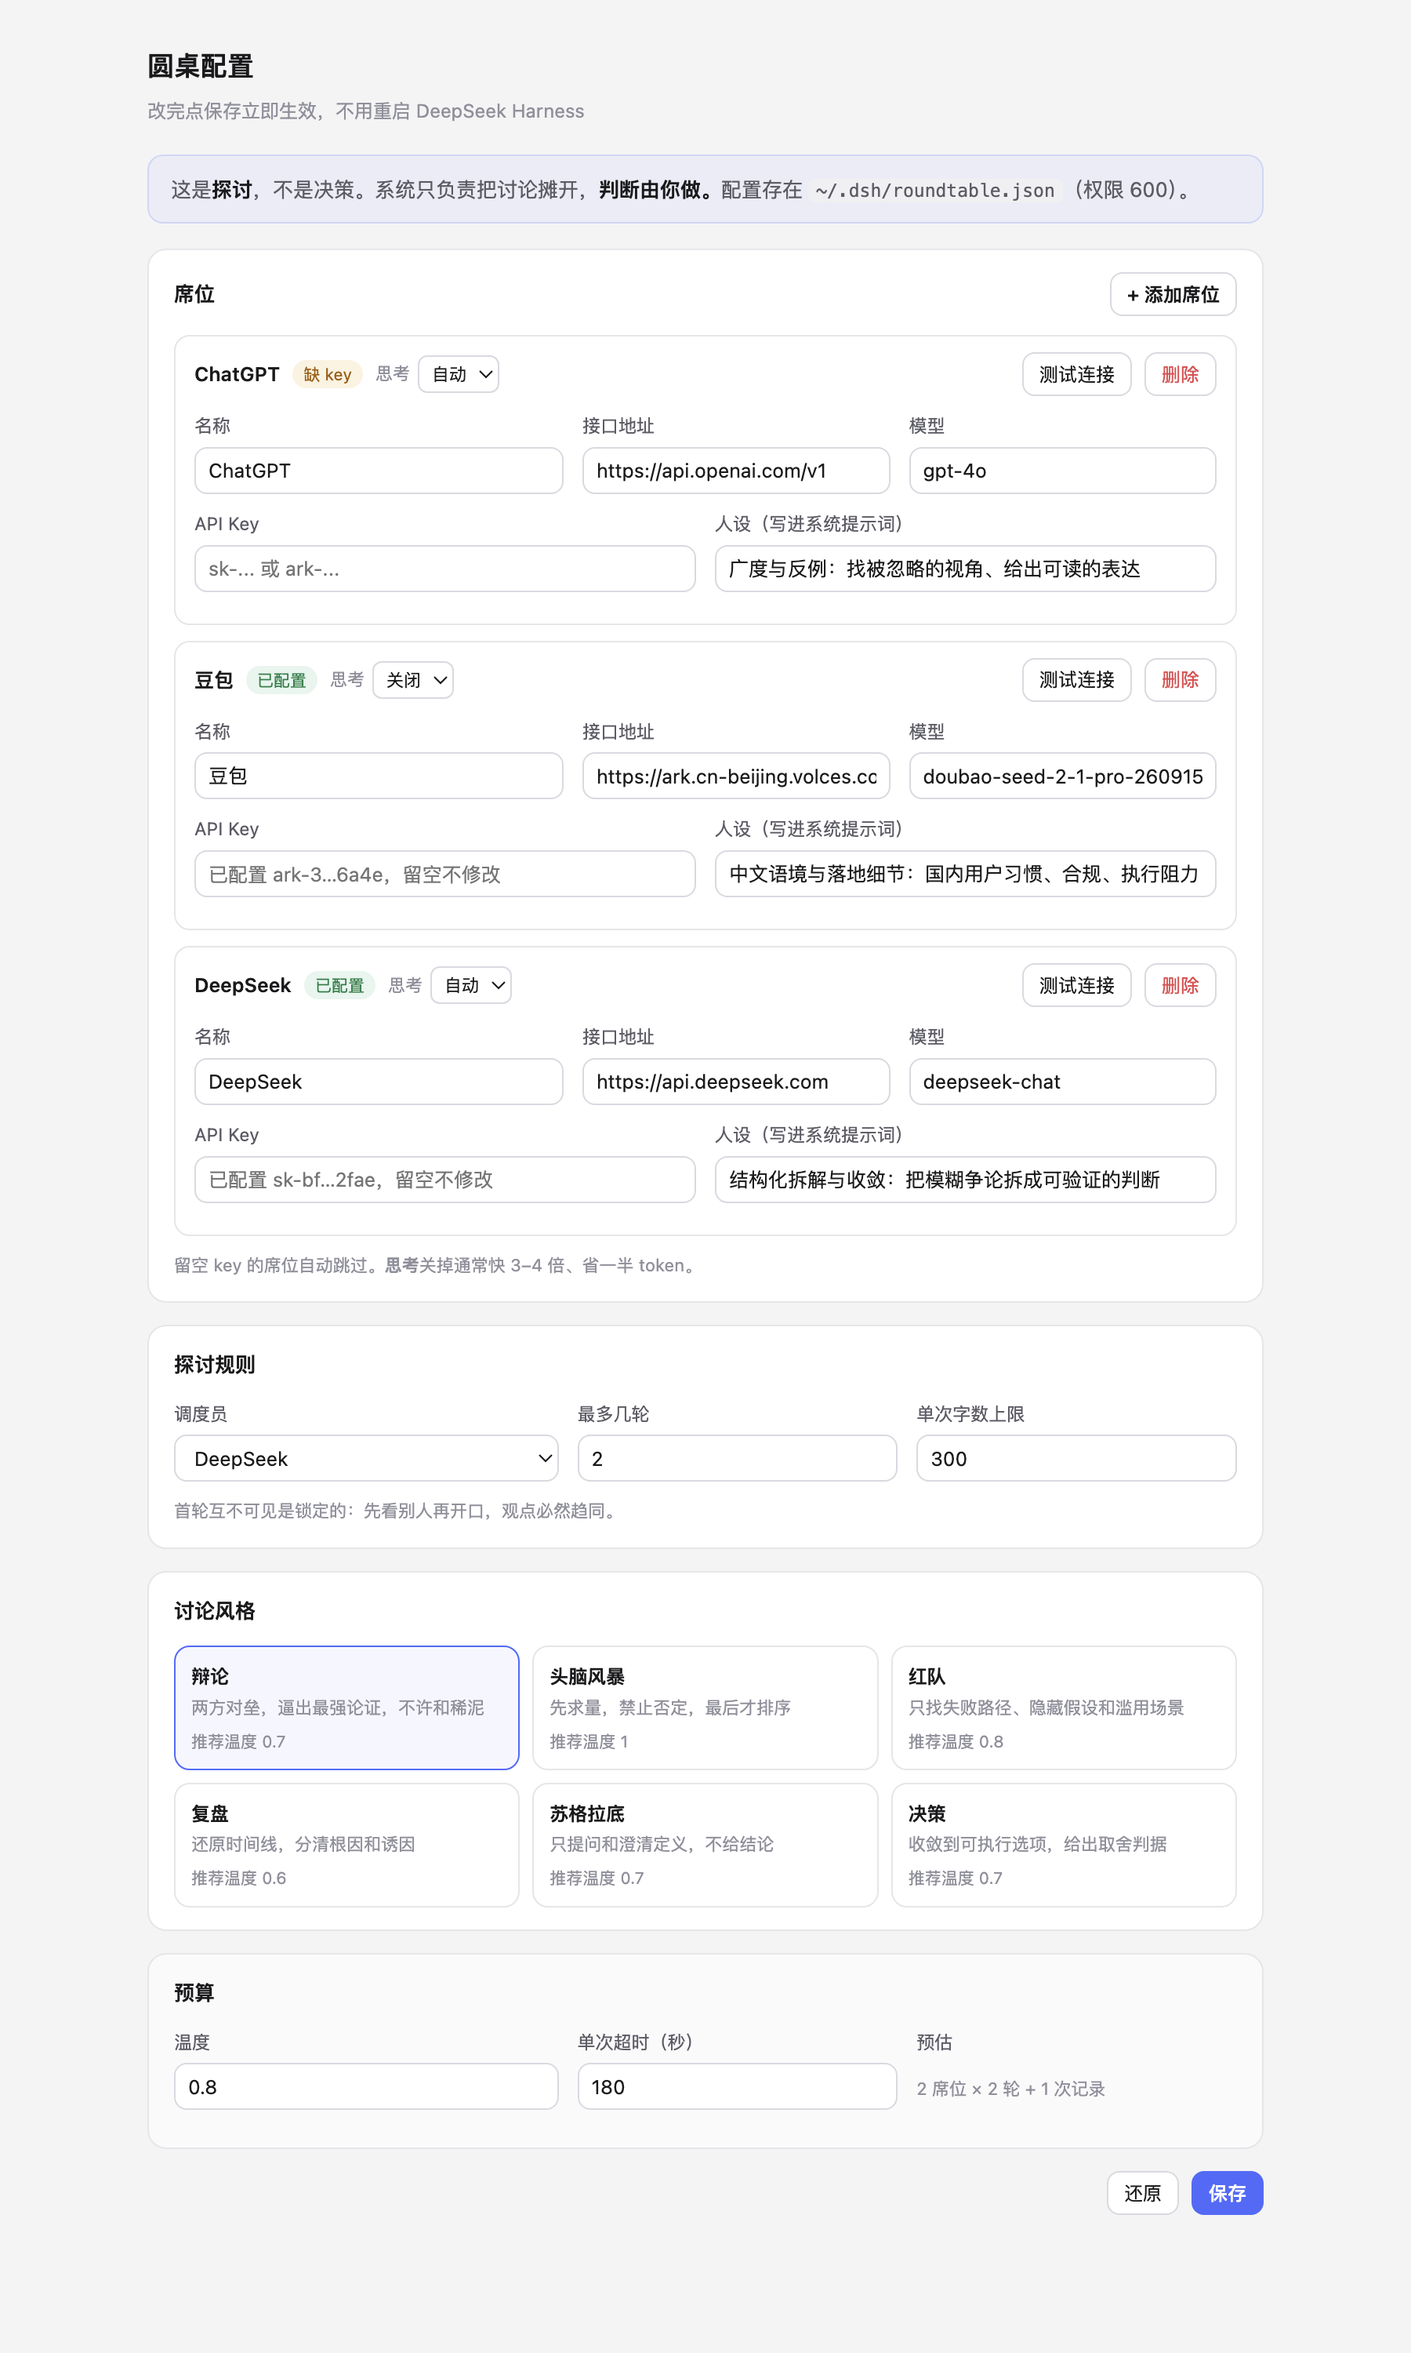
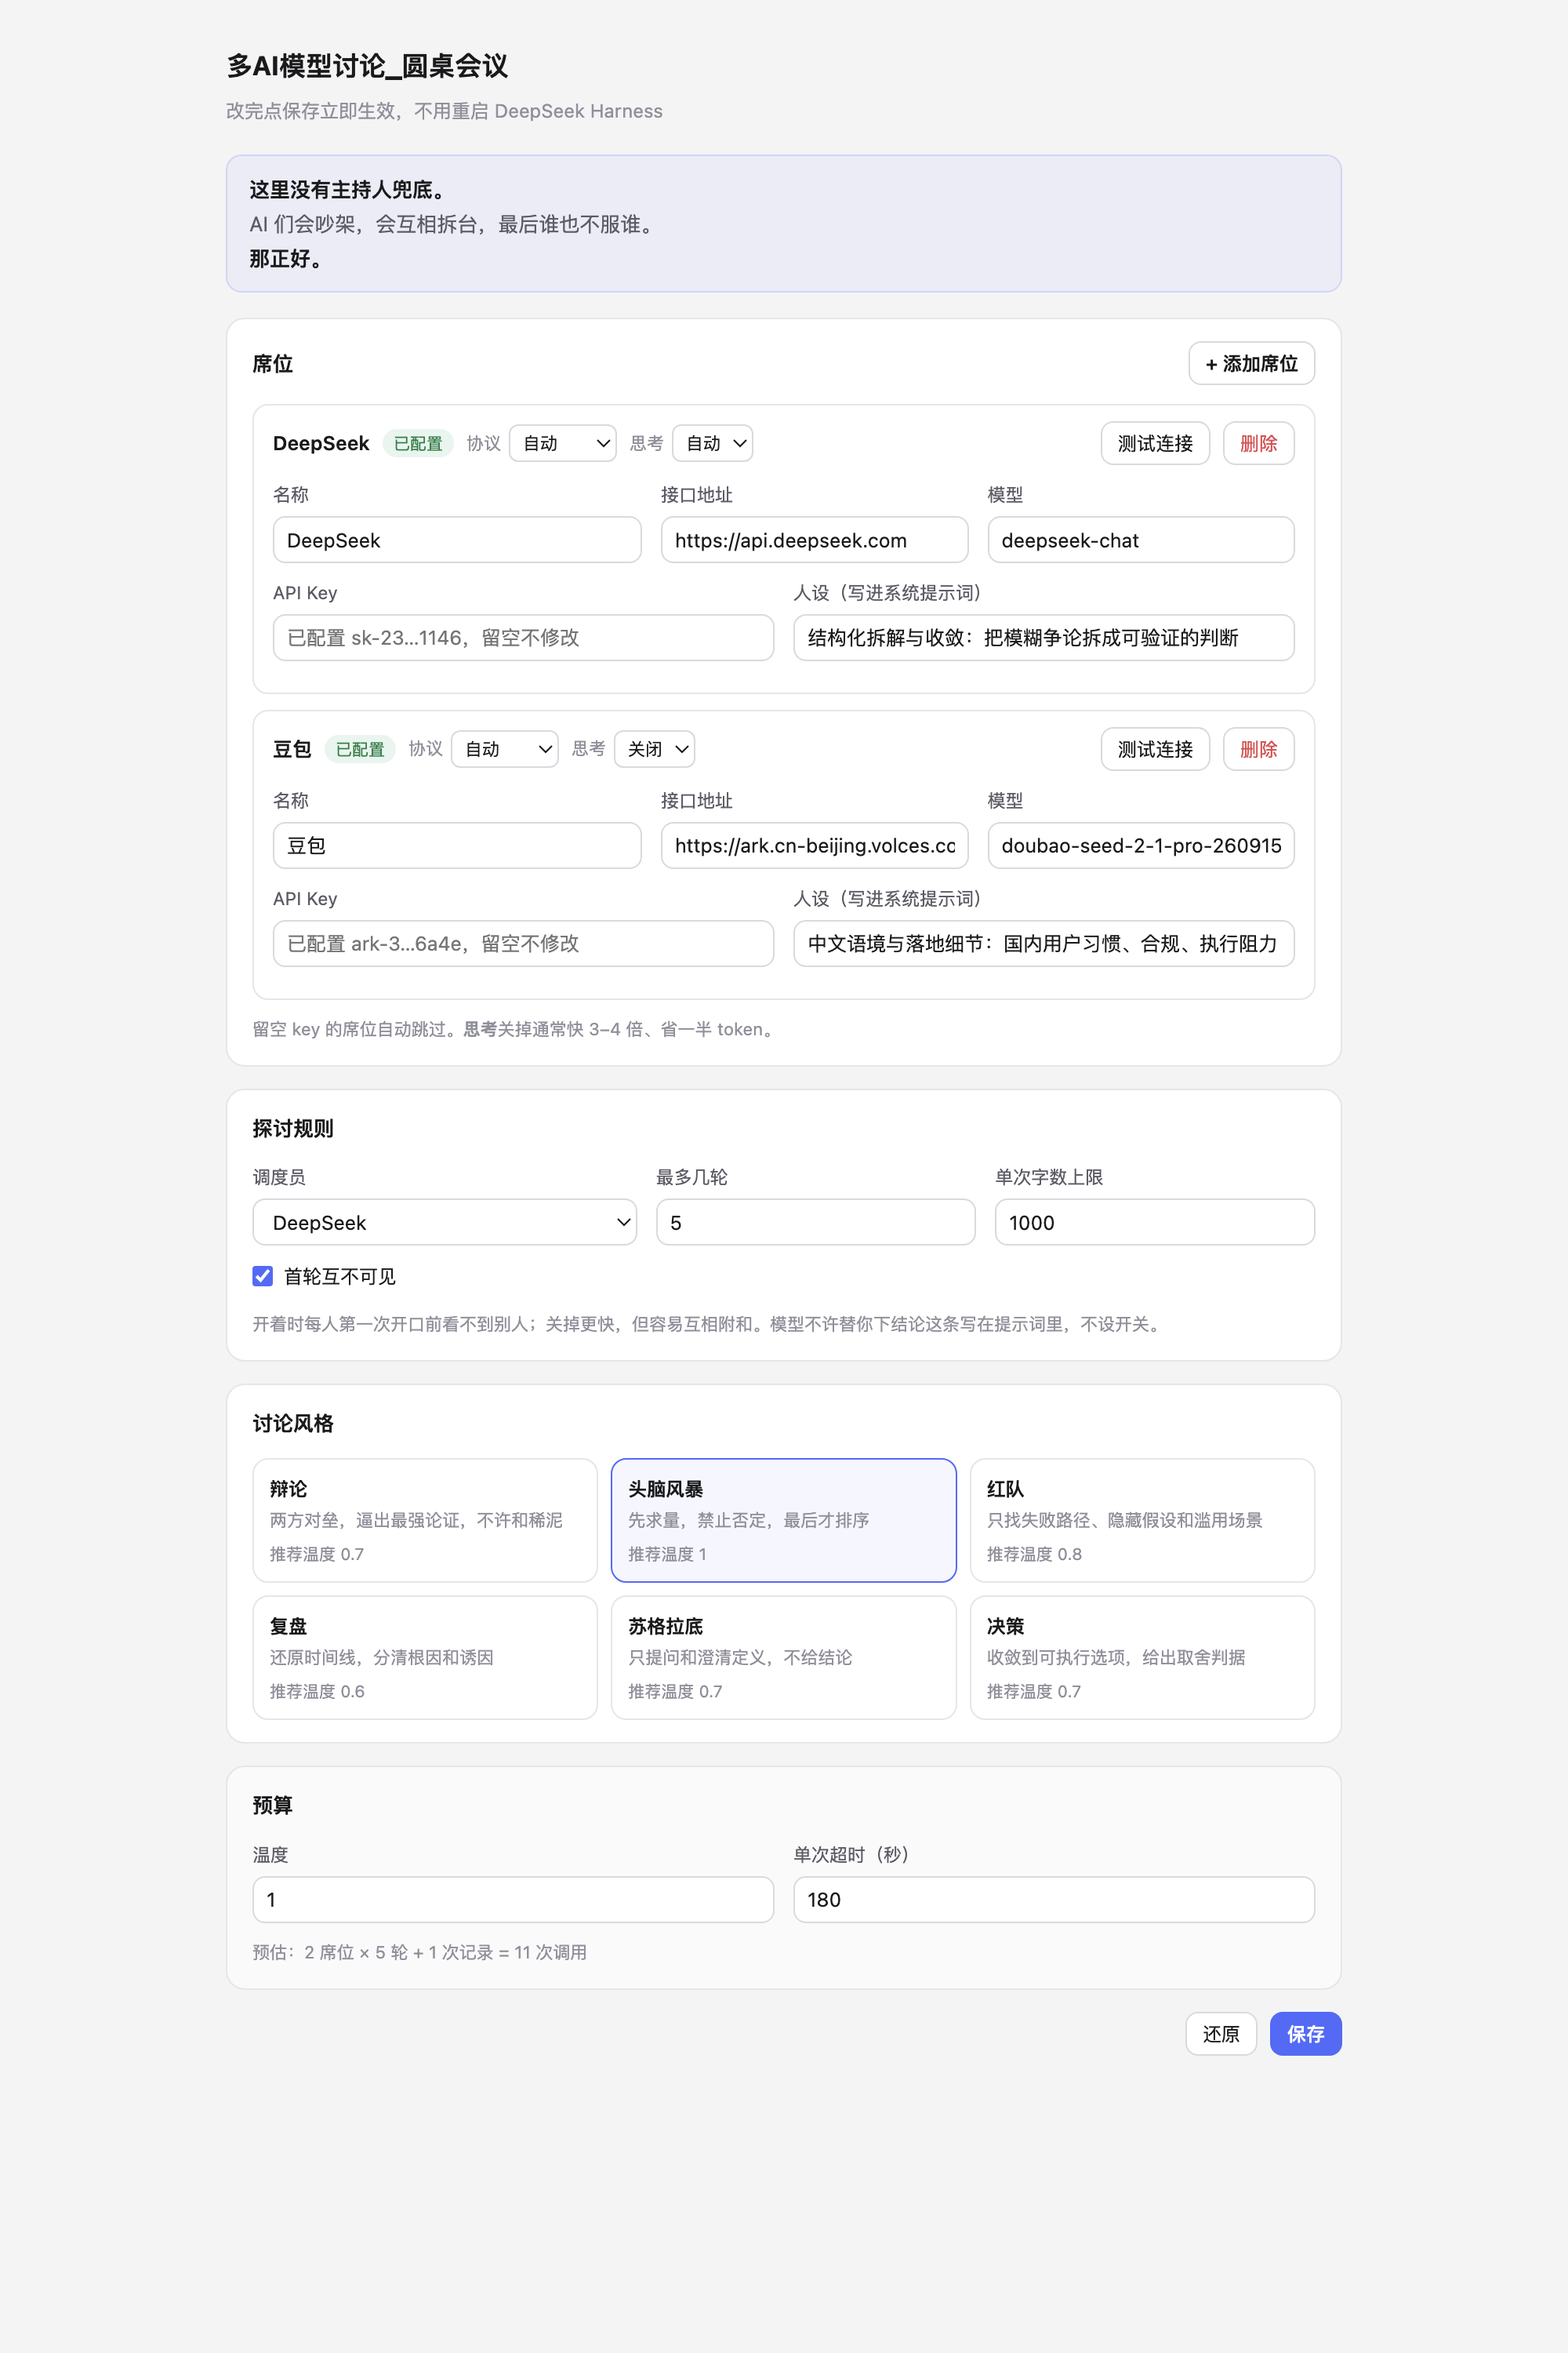
feat: 多AI模型讨论_圆桌会议 v1.0.0

diff --git a/tools/settings-page.html b/tools/settings-page.html
@@ -24,7 +24,9 @@ h1{font-size:17px;margin:0 0 6px}
 .f label{font-size:11.5px;color:var(--fg2)}
 input,select{width:100%;height:30px;padding:0 8px;font:inherit;font-size:12.5px;color:var(--fg);background:var(--panel);border:1px solid var(--line2);border-radius:8px;outline:none}
 input:focus,select:focus{border-color:var(--pri)}
-.check{display:inline-flex;align-items:center;gap:7px;font-size:12px;margin-bottom:6px}
+.check{display:inline-flex;align-items:center;gap:7px;font-size:12px;margin-bottom:6px;line-height:1.6}
+/* 全局 input{width:100%} 会把复选框也撑满，必须单独复位 */
+input[type=checkbox]{width:auto;height:auto;margin:0;accent-color:var(--pri);flex:none}
 .hint{font-size:11px;color:var(--fg3);line-height:1.6;margin-top:6px}
 .seat{border:1px solid var(--line);border-radius:10px;padding:10px 12px;margin-bottom:10px}
 .shead{display:flex;align-items:center;gap:8px;margin-bottom:10px;flex-wrap:wrap}

diff --git a/lib/index.js b/lib/index.js
@@ -1,5 +1,5 @@
 /**
- * DSH 工具插件：多模型圆桌
+ * DSH 工具插件：多AI模型讨论_圆桌会议
  *
  * 一次工具调用只走一步（调度员点名 → 某人发言），这样每句话都能立刻回到对话里，
  * 而不是憋两分钟吐出一大段。典型用法：
@@ -36,7 +36,7 @@ export const inject = ['tools']
 const ACTIONS = new Set(['open', 'next', 'say', 'close', 'list', 'config'])
 
 const USAGE = [
-  '多模型圆桌：把 ChatGPT / 豆包 / DeepSeek 等模型拉进同一场讨论，由一个中立调度员决定谁发言。',
+  '多AI模型讨论_圆桌会议：把几个 AI 拉进同一场讨论，由一个中立调度员决定谁发言。',
   '',
   '用法（一次调用走一步）：',
   '1. action="open" + topic 开场，拿到 roomId —— 返回参与者、调度员、最大轮数',

diff --git a/preview-settings.html b/preview-settings.html
@@ -120,7 +120,7 @@ input:focus,select:focus,textarea:focus{border-color:var(--dsw-alias-state-busin
         <a><span class="ico">◫</span>模型</a>
         <a><span class="ico">⧉</span>内置插件</a>
         <a><span class="ico">✦</span>Agent 预设</a>
-        <a class="on"><span class="ico">◈</span>圆桌讨论</a>
+        <a class="on"><span class="ico">◈</span>多AI圆桌会议</a>
         <a><span class="ico">◆</span>桌宠配置</a>
         <a><span class="ico">▦</span>插件市场</a>
       </nav>

diff --git a/lib/client.js b/lib/client.js
@@ -1,5 +1,5 @@
 /**
- * 客户端半侧：设置 → 圆桌讨论
+ * 客户端半侧：设置 → 多AI圆桌会议
  *
  * 这是浏览器 bundle，必须遵守 DSH 的模块契约：
  *   - 顶层不能有 import / export

diff --git a/README.md b/README.md
@@ -59,7 +59,7 @@ Requires DeepSeek Harness `0.2.1-rc.3` (tested). Licensed MIT.
 插件 → 添加插件 → 安装第三方插件 → github:valarjin01/dsh-ai-roundtable
 ```
 
-装完**重启一次**，然后 设置 → **圆桌讨论** → 填 API key（至少两个席位）。
+装完**重启一次**，然后 设置 → **多AI圆桌会议** → 填 API key（至少两个席位）。
 
 本地开发用 `python3 scripts/install-profile.py`（幂等，自带备份；卸载用 `scripts/uninstall-profile.py`）。
 
@@ -93,7 +93,7 @@ Requires DeepSeek Harness `0.2.1-rc.3` (tested). Licensed MIT.
 
 ## 设置页
 
-侧栏 → **插件** 或 **设置** → **圆桌讨论**（重启一次后出现）。能改：
+侧栏 → **插件** 或 **设置** → **多AI圆桌会议**（重启一次后出现）。能改：
 
 - 席位：名字 / 接口地址 / 模型 / key（只显示掩码）/ 人设 / **思考模式**
 - 我的席位：称呼、参与方式
